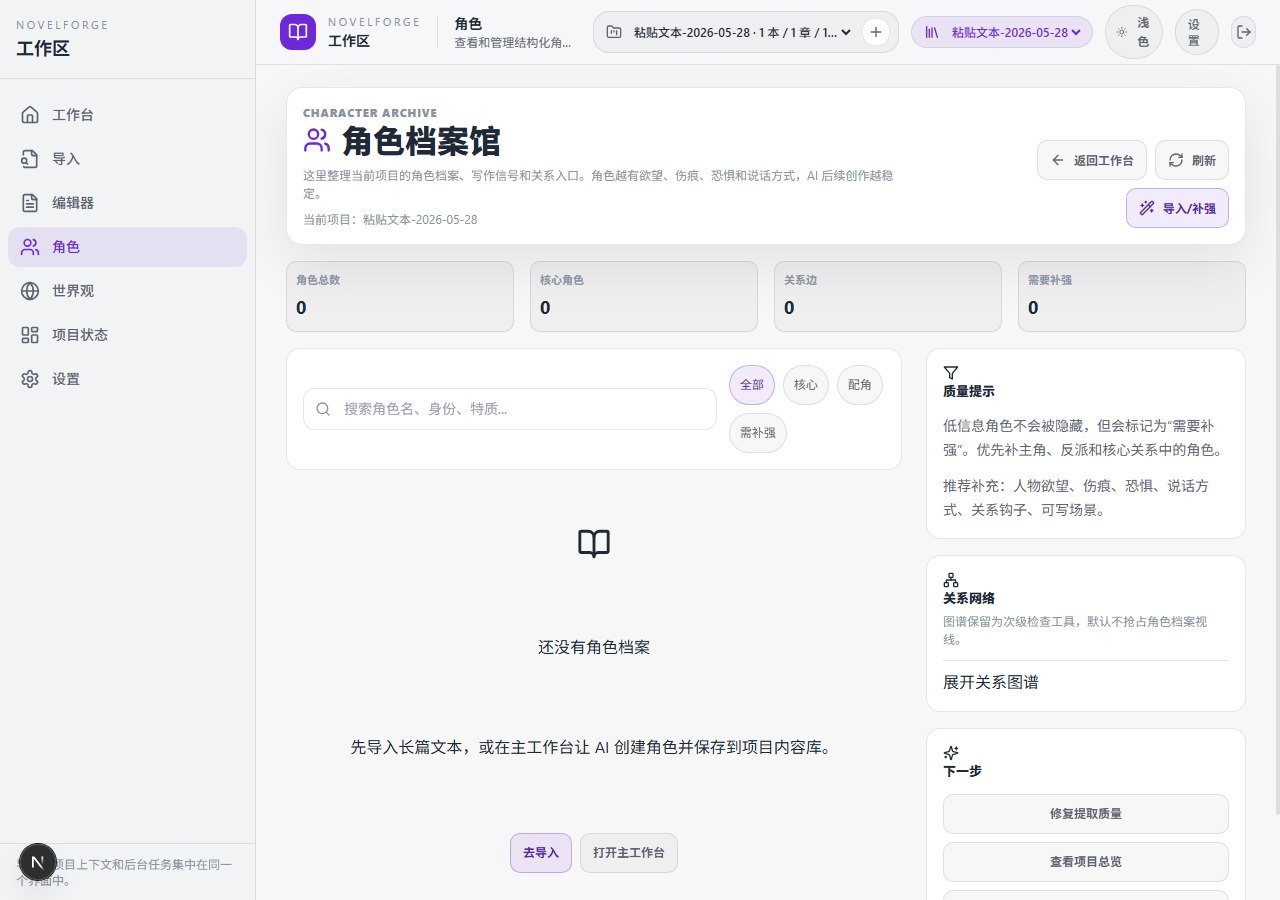
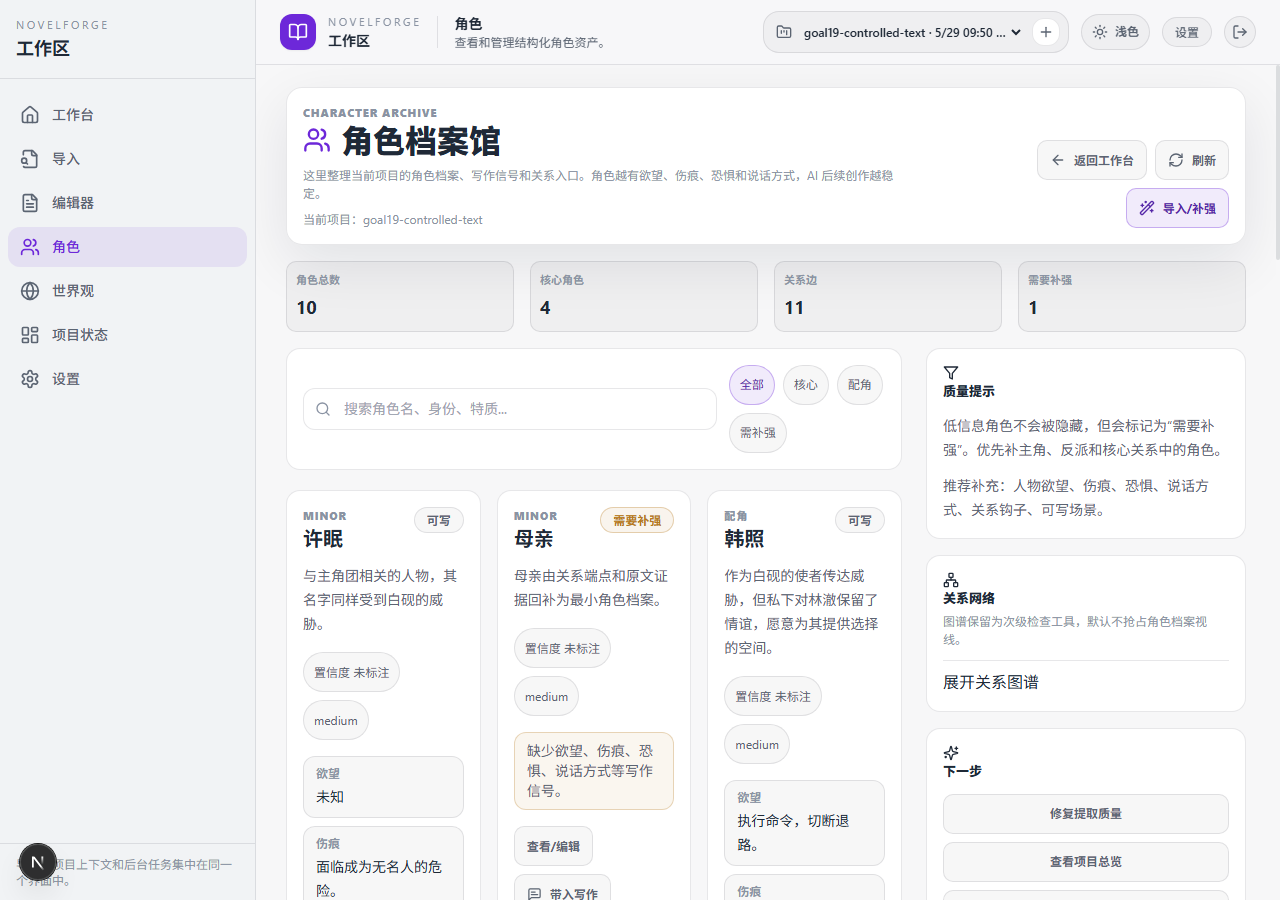
complete goal19 real smoke validation

diff --git a/novelforge-core/novelforge/api/__init__.py b/novelforge-core/novelforge/api/__init__.py
@@ -17,6 +17,7 @@ import hmac
 import html
 import secrets
 import time
+import asyncio
 from enum import Enum
 from pathlib import Path
 from contextlib import asynccontextmanager
@@ -100,6 +101,11 @@ CHAT_STORAGE_TYPE = "file"
 
 class AuthLoginRequest(BaseModel):
     password: str = Field(..., min_length=1)
+
+
+class SuggestPromptsRequest(BaseModel):
+    session_id: Optional[str] = None
+    openai_config: Optional[Any] = None
 
 
 def _auth_is_enabled() -> bool:
@@ -974,6 +980,22 @@ async def build_world_setting(request: WorldBuildingRequest):
             detail=f"世界构建失败: {str(e)}"
         )
 
+
+@app.post("/api/ai/suggest-prompts", response_model=List[str])
+async def suggest_prompts(request: SuggestPromptsRequest):
+    """Return stable prompt chips for the writing workspace."""
+    suggestions = [
+        "基于当前资产生成一个有情绪张力的序章。",
+        "梳理主角和关键关系，找出最适合开篇的冲突。",
+        "从当前章节继续写一段候选正文。",
+        "把薄弱关系补成可写作的人物羁绊。",
+        "根据世界观设定设计一个关键场景。",
+        "检查当前项目还缺哪些创作素材。",
+    ]
+    if request.session_id:
+        suggestions.insert(1, "读取当前项目资产后，给我三个开篇方案。")
+    return suggestions[:8]
+
 # Workflow management endpoints.
 
 @app.post("/api/workflow/start-process")
@@ -1400,18 +1422,27 @@ async def send_chat_message_stream(request: ChatRequest):
         storage_type=CHAT_STORAGE_TYPE,
     )
 
-    agent_preparation = await _get_writing_agent_runtime().prepare(
-        user_message=request.message,
-        context=request.context,
-        conversation=conversation,
-        base_system_prompt=_build_chat_system_prompt(request.context),
-        ai_service=runtime_ai_service,
-    )
-
     async def event_generator():
         assistant_content = ""
         assistant_thinking = ""
         try:
+            yield f"data: {json.dumps({'type': 'status', 'stage': 'preparing_context', 'message': 'preparing_agent_context'}, ensure_ascii=False)}\n\n"
+            preparation_task = asyncio.create_task(
+                _get_writing_agent_runtime().prepare(
+                    user_message=request.message,
+                    context=request.context,
+                    conversation=conversation,
+                    base_system_prompt=_build_chat_system_prompt(request.context),
+                    ai_service=runtime_ai_service,
+                )
+            )
+            while True:
+                try:
+                    agent_preparation = await asyncio.wait_for(asyncio.shield(preparation_task), timeout=10.0)
+                    break
+                except asyncio.TimeoutError:
+                    yield f"data: {json.dumps({'type': 'status', 'stage': 'preparing_context', 'message': 'waiting_for_agent_context'}, ensure_ascii=False)}\n\n"
+
             yield f"data: {json.dumps({'type': 'agent_trace', 'trace': agent_preparation.trace}, ensure_ascii=False)}\n\n"
             async for event in runtime_ai_service.chat_stream(
                 prompt=request.message,

diff --git a/novelforge-core/novelforge/services/ai_service.py b/novelforge-core/novelforge/services/ai_service.py
@@ -554,13 +554,21 @@ class AIService:
         timeout: float = 120.0,
     ):
         """Best-effort streaming chat yielding incremental thinking/content events."""
-        full_text = await self.chat(
-            prompt=prompt,
-            system_prompt=system_prompt,
-            temperature=temperature,
-            max_tokens=max_tokens,
-            timeout=timeout,
+        chat_task = asyncio.create_task(
+            self.chat(
+                prompt=prompt,
+                system_prompt=system_prompt,
+                temperature=temperature,
+                max_tokens=max_tokens,
+                timeout=timeout,
+            )
         )
+        while True:
+            try:
+                full_text = await asyncio.wait_for(asyncio.shield(chat_task), timeout=10.0)
+                break
+            except asyncio.TimeoutError:
+                yield {"type": "status", "stage": "model_call", "message": "waiting_for_model"}
 
         thinking_match = re.search(r"<think>([\s\S]*?)</think>", full_text)
         thinking = thinking_match.group(1).strip() if thinking_match else ""

diff --git a/novelforge-core/novelforge/content/chapter_detector.py b/novelforge-core/novelforge/content/chapter_detector.py
@@ -113,10 +113,6 @@ class RegexBasedChapterDetector(ChapterDetector):
                     line_start = text.rfind('\n', 0, start_pos) + 1
                     if text[line_start:start_pos].strip():
                         continue
-                    previous_line_start = text.rfind('\n', 0, max(line_start - 1, 0)) + 1
-                    previous_line = text[previous_line_start:line_start].strip()
-                    if previous_line and '。' in previous_line:
-                        continue
 
                 positions.append((start_pos, end_pos, title))
                 processed_positions.add(start_pos)
@@ -204,6 +200,9 @@ class RegexBasedChapterDetector(ChapterDetector):
         
         # 检查长度
         if len(title) < 2 or len(title) > 100:
+            return False
+
+        if re.search(r'[。！？?!；;]', title):
             return False
         
         # 检查是否包含章节关键词

diff --git a/novelforge-core/tests/services/test_text_processing_service.py b/novelforge-core/tests/services/test_text_processing_service.py
@@ -44,3 +44,22 @@ def test_enhanced_detector_handles_volume_headings_with_optional_title():
     assert chapters[0].content == "正文第一段。"
     assert chapters[1].title == "第一章 开始"
     assert chapters[1].content == "正文第二段。"
+
+
+def test_enhanced_detector_keeps_headings_after_sentence_lines():
+    text = (
+        "第一章 雨夜档案馆\n"
+        "上一章正文第一段，以句号结束。\n"
+        "第二章 守夜人的债\n"
+        "第二章正文。\n"
+        "第三章 月桥钟声\n"
+        "第三章正文。"
+    )
+
+    chapters = EnhancedChapterDetector().detect_chapters(text)
+
+    assert [chapter.title for chapter in chapters] == [
+        "第一章 雨夜档案馆",
+        "第二章 守夜人的债",
+        "第三章 月桥钟声",
+    ]

diff --git a/project-docs/INTERNAL_TEST_RESULTS.md b/project-docs/INTERNAL_TEST_RESULTS.md
@@ -1,5 +1,79 @@
 # NovelForge Internal Test Results
 
+## 2026-05-29 Goal 19 Real Smoke Rerun
+
+Status: passed for the core product chain, with deployment-configuration warning.
+
+Verified chain:
+
+`login -> clean project -> import controlled text -> extraction -> extract diagnostics -> dashboard -> characters/world -> workspace -> real AI writing -> save_asset card -> confirm save -> editor saved candidate -> mobile workspace smoke`
+
+### Environment
+
+- Workspace: local NovelForge development environment.
+- Backend: local FastAPI service on `127.0.0.1:8001`.
+- Frontend: local Next.js service on `127.0.0.1:3010`.
+- Browser verification: headless Chrome through CDP fallback.
+- Provider: NewAPI-compatible server-side configuration.
+- Base URL: `https://fast-newapi.sync-api.xyz:8848/v1`.
+- Model: `gemini-3.5-flash`.
+- Auth note: local `.env` still does not define `NOVELFORGE_ADMIN_PASSWORD`, so the smoke injected a process-only admin password to exercise the login UI. Public/internal deployment should set `NOVELFORGE_ADMIN_PASSWORD` and `NOVELFORGE_SESSION_SECRET` before release.
+
+### Test Text
+
+- Source: synthetic controlled text generated only for this smoke run.
+- The text is not the root sample novel and is not committed.
+- Original text is intentionally not stored in this document.
[1 lines of base64/hex data omitted]
+
+### Import Result
+
+- Run id: `goal19-20260529015029`.
+- Session id: `42cac0a0-d332-4703-a813-e6605d945453`.
+- Novel parent id: `novel_42cac0a0-d332-4703-a813-e6605d945453`.
+- Import task id: `1780019444851559`.
+- Task status: `completed`.
+- Analysis status: `completed`.
+- Chapters: 6.
+- Characters: 10.
+- Relationships: 15.
+- Timeline events: 20.
+- World assets: 1.
+- Analysis quality issues: none.
+
+### Writing And Save Result
+
+- AI writing status: `save_card`.
+- Saved chapter id: `96db28b2-c137-4b65-9c5d-c50f936d46a5`.
+- Editor candidate actions visible: yes.
+- `previous_snapshot` entry: not applicable in this run because the saved chapter was a new alternate candidate, not an overwrite/recovery path.
+- Writing quality quick read: the generated candidate uses the imported setting and characters, produces an emotional opening scene, and is suitable as an AI candidate version rather than an immediately final chapter.
+
+### Screenshots
+
+Captured screenshots are stored in `project-docs/screenshots/goal19/`:
+
+- `workspace-after-import.png`
+- `extract-diagnostics-real.png`
+- `dashboard-real-quality.png`
+- `characters-real.png`
+- `world-real.png`
+- `save-card-real.png`
+- `editor-saved-candidate.png`
+- `mobile-workspace-smoke.png`
+
+### Fixes Made During This Rerun
+
+- Fixed the streaming chat endpoint so it starts the response promptly and sends heartbeat status events while preparing agent context or waiting for the model. This prevents the browser/Next proxy from sitting on an idle connection during long real-model calls.
+- Added the missing `/api/ai/suggest-prompts` backend endpoint used by the chat input, removing a real 404 from the workspace runtime path.
+- Fixed chapter detection after preprocessing: headings after sentence-ending lines are no longer discarded, and headings embedded in normal sentence lines are rejected when they contain sentence punctuation. This changed the controlled import from 1 detected chapter to 6.
+
+### Remaining Risks
+
+- The dashboard quality panel is stricter than the import quality gate. Even when import analysis completed, it may still flag character/relationship writing readiness as needing repair. This is useful but should be aligned in a later pass so users understand the difference between extraction success and prose-readiness.
+- Local deployment still needs persistent admin auth env values. The smoke proves the login UI, but release config must set real admin/session secrets.
+- This was a synthetic-text smoke. The long sample novel should still be rerun before claiming long-form extraction quality.
+
 ## 2026-05-28 Goal 19 Real Smoke
 
 Status: partial, blocked by external provider authentication.

diff --git a/project-docs/PROGRESS.md b/project-docs/PROGRESS.md
@@ -5351,3 +5351,36 @@
 - 当前判断：
   - 这是 Goal 19 从 blocked 状态恢复后的第 2 次同类阻塞复现。
   - 完整 UI smoke 仍不应伪造通过；缺失的 `save-card-real`、`editor-saved-candidate`、`mobile-workspace-smoke` 需要在 provider 恢复后补齐。
+
+### 2026-05-29 Goal 19 真实闭环复跑通过核心链路
+
+- 配置变化：
+  - 本地 `.env` 已切换到新的 NewAPI-compatible base URL：`https://fast-newapi.sync-api.xyz:8848/v1`。
+  - 使用服务端模型配置 `gemini-3.5-flash` 跑真实模型调用；密钥只保存在本地 `.env`，未提交。
+- 本轮修复：
+  - 修复 `/api/chat/send-message-stream`：流式接口会先返回状态帧，并在 agent 上下文准备 / 模型等待阶段发送心跳，避免真实模型调用时 Next 代理长时间空闲导致 `socket hang up`。
+  - 新增 `/api/ai/suggest-prompts`：补齐聊天输入组件已经调用的提示建议接口，避免工作台运行时 404。
+  - 修复章节检测：预处理把空行压成单换行后，旧规则会因为“上一行有句号”误丢第二章以后的标题；现已允许合法新行标题，同时拒绝带句末标点的正文误匹配。
+  - 新增 `test_enhanced_detector_keeps_headings_after_sentence_lines` 锁定该切章回归。
+- 真实 smoke 结果：
+  - run id：`goal19-20260529015029`
+  - import task：`1780019444851559`
+  - analysis_status：`completed`
+  - 资产计数：chapters=6、characters=10、relationships=15、timeline=20、world=1
+  - analysis_quality_issues：空
+  - AI 写作：真实模型返回 save_asset 卡
+  - 保存章节：`96db28b2-c137-4b65-9c5d-c50f936d46a5`
+  - editor：可定位保存候选，候选操作入口可见
+  - mobile workspace smoke：已截图
+- 截图：
+  - `project-docs/screenshots/goal19/workspace-after-import.png`
+  - `project-docs/screenshots/goal19/extract-diagnostics-real.png`
+  - `project-docs/screenshots/goal19/dashboard-real-quality.png`
+  - `project-docs/screenshots/goal19/characters-real.png`
+  - `project-docs/screenshots/goal19/world-real.png`
+  - `project-docs/screenshots/goal19/save-card-real.png`
+  - `project-docs/screenshots/goal19/editor-saved-candidate.png`
+  - `project-docs/screenshots/goal19/mobile-workspace-smoke.png`
+- 当前判断：
+  - Goal 19 的核心真实闭环已经跑通：导入 -> 提取 -> 质量诊断 -> AI 写作 -> save_asset -> 用户确认保存 -> editor 候选管理。
+  - 仍保留两个风险：本地 `.env` 尚未配置持久管理员密码 / session secret；项目状态页的“创作就绪”质量提示比导入质量闸门更严格，后续需要解释或统一语义。
